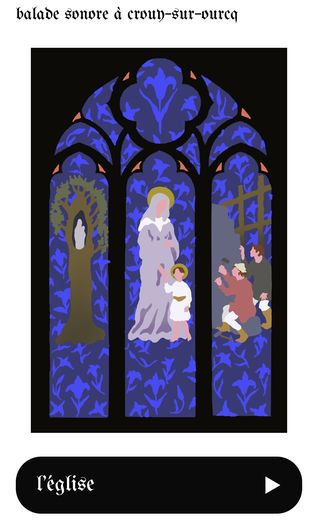
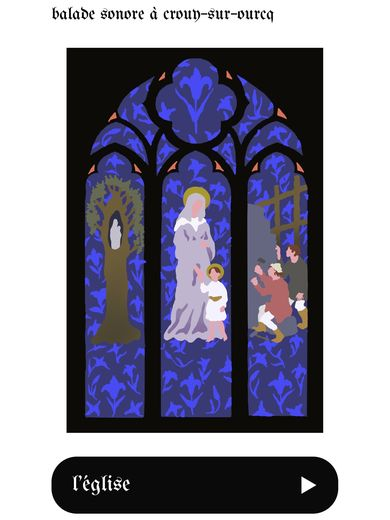
Landscape thumbnails for installations; église image padded with white to match the others
Claude-Session: https://claude.ai/code/session_01MXJqNDaM8BKMDzyFFuq7da

diff --git a/index.html b/index.html
@@ -940,6 +940,8 @@ body {
 .g-thumb { all: unset; box-sizing: border-box; cursor: zoom-in; display: block; aspect-ratio: 3 / 4; overflow: hidden;
   border: 1px solid var(--ink); background: #F8F7F3; transition: transform 0.15s steps(2, end); }
 .g-thumb img { display: block; width: 100%; height: 100%; object-fit: cover; }
+.info-gallery.wide { grid-template-columns: repeat(2, minmax(0, 1fr)); }
+.info-gallery.wide .g-thumb { aspect-ratio: 4 / 3; }
 .g-thumb.is-scheme img { object-fit: contain; padding: 4px; box-sizing: border-box; }
 .g-thumb:hover { transform: translateY(-3px); }
 .g-thumb:focus-visible { outline: 2px solid var(--ink); outline-offset: 2px; }
@@ -1870,6 +1872,7 @@ function setGallery(g, title) {
   const box = document.getElementById('info-gallery');
   curGallery = g || [];
   box.hidden = !curGallery.length;
+  box.classList.toggle('wide', activeSection === 'work' && activeCat === 'installations');   // landscape thumbnails
   box.innerHTML = galleryHTML(curGallery, title || '');
 }
 // lightbox
@@ -2379,7 +2382,7 @@ fitKeyboard();
           ${p.org ? `<div class="m-org">${esc(p.org)}</div>` : ''}
           ${p.media && p.media.length ? `<div class="m-media">${mediaHTML(p.media, p.title, true)}</div>` : ''}
           ${p.desc.map(t => `<p>${esc(t)}</p>`).join('')}
-          ${galleryOf(p).length ? `<div class="m-gallery info-gallery" data-gallery='${JSON.stringify(galleryOf(p)).replace(/'/g, '&#39;')}'>${galleryHTML(galleryOf(p), p.title)}</div>` : ''}
+          ${galleryOf(p).length ? `<div class="m-gallery info-gallery${p.cat === 'installations' ? ' wide' : ''}" data-gallery='${JSON.stringify(galleryOf(p)).replace(/'/g, '&#39;')}'>${galleryHTML(galleryOf(p), p.title)}</div>` : ''}
           <dl>${p.info.map(([k, v]) => `<div><dt>${esc(k)}</dt><dd>${esc(v)}</dd></div>`).join('')}</dl>
         </div>
       </div>`).join('')}`).join('');
